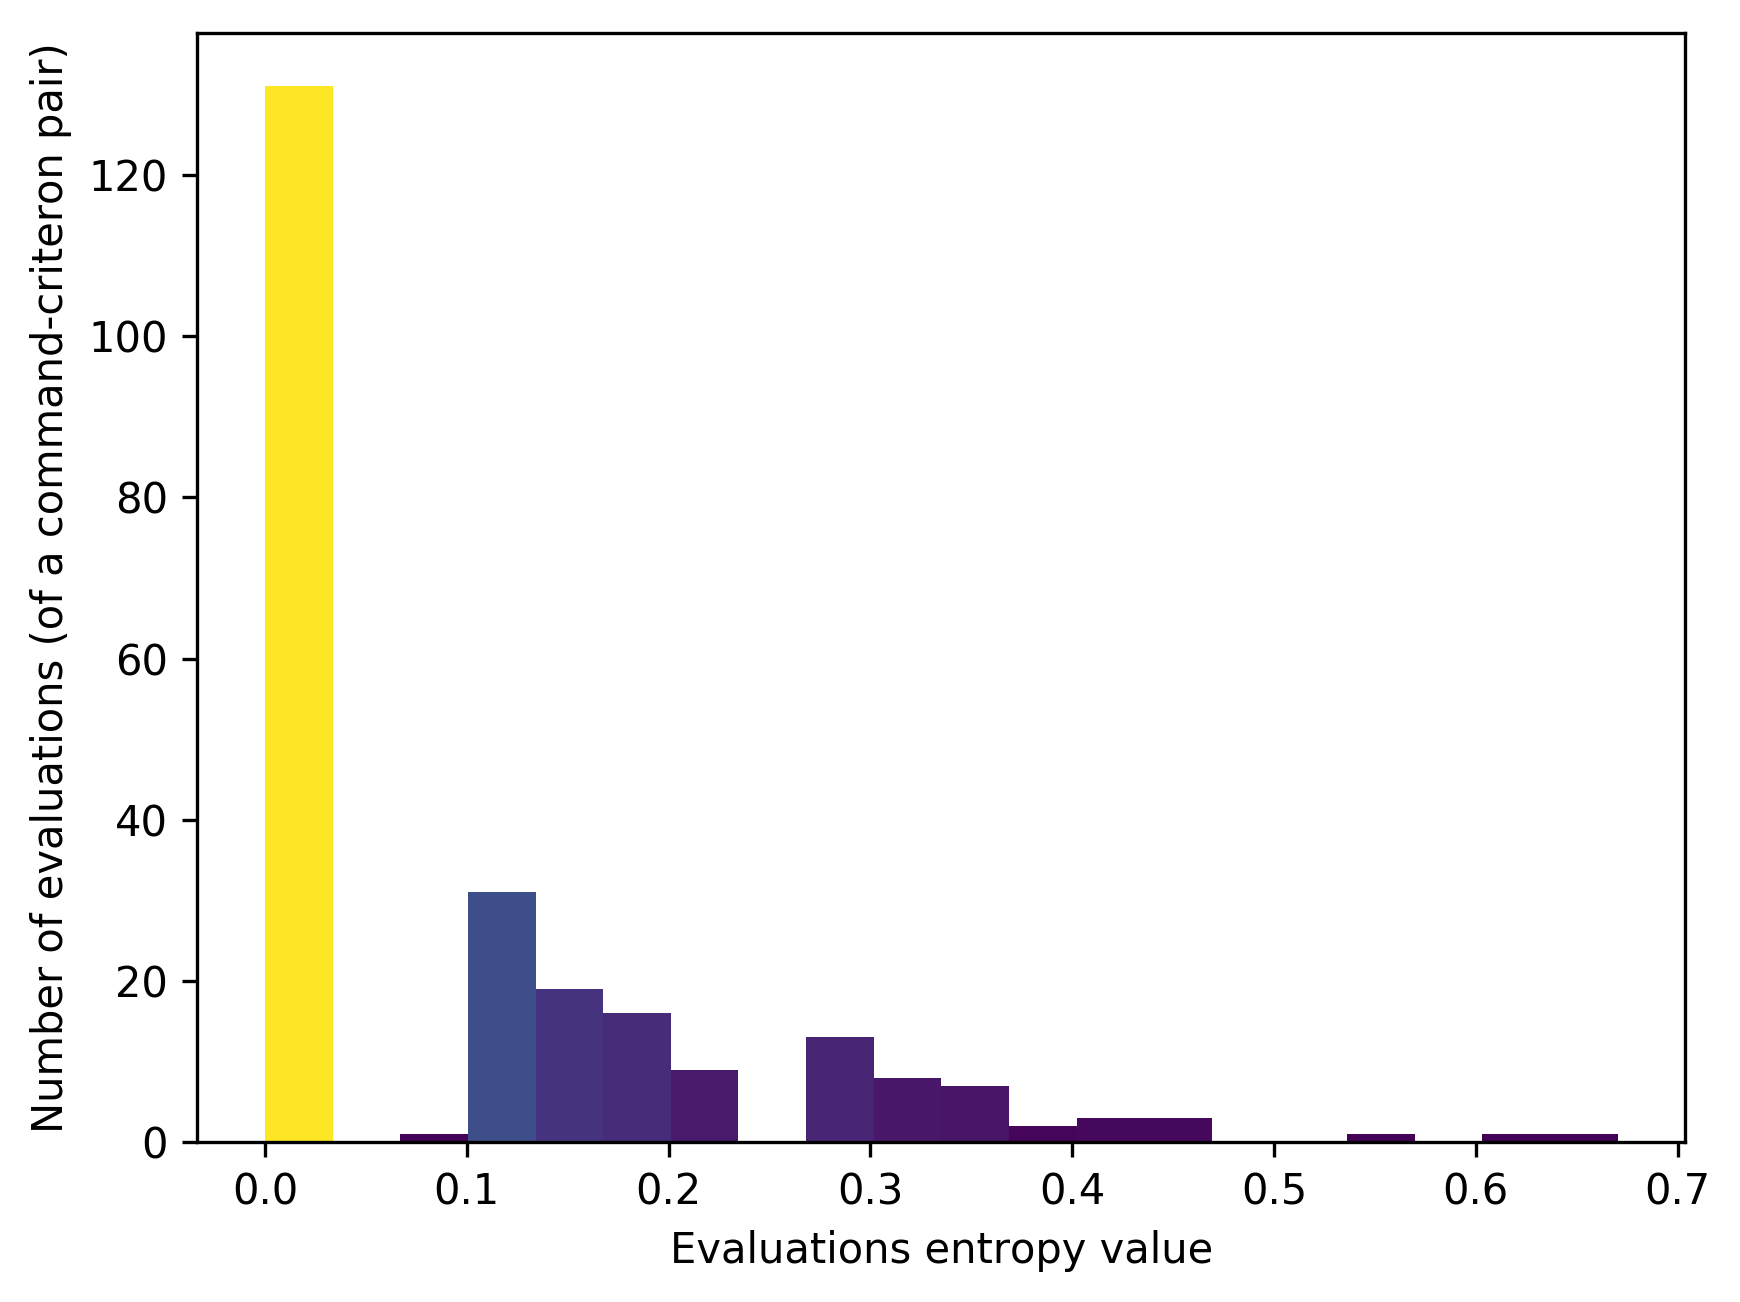
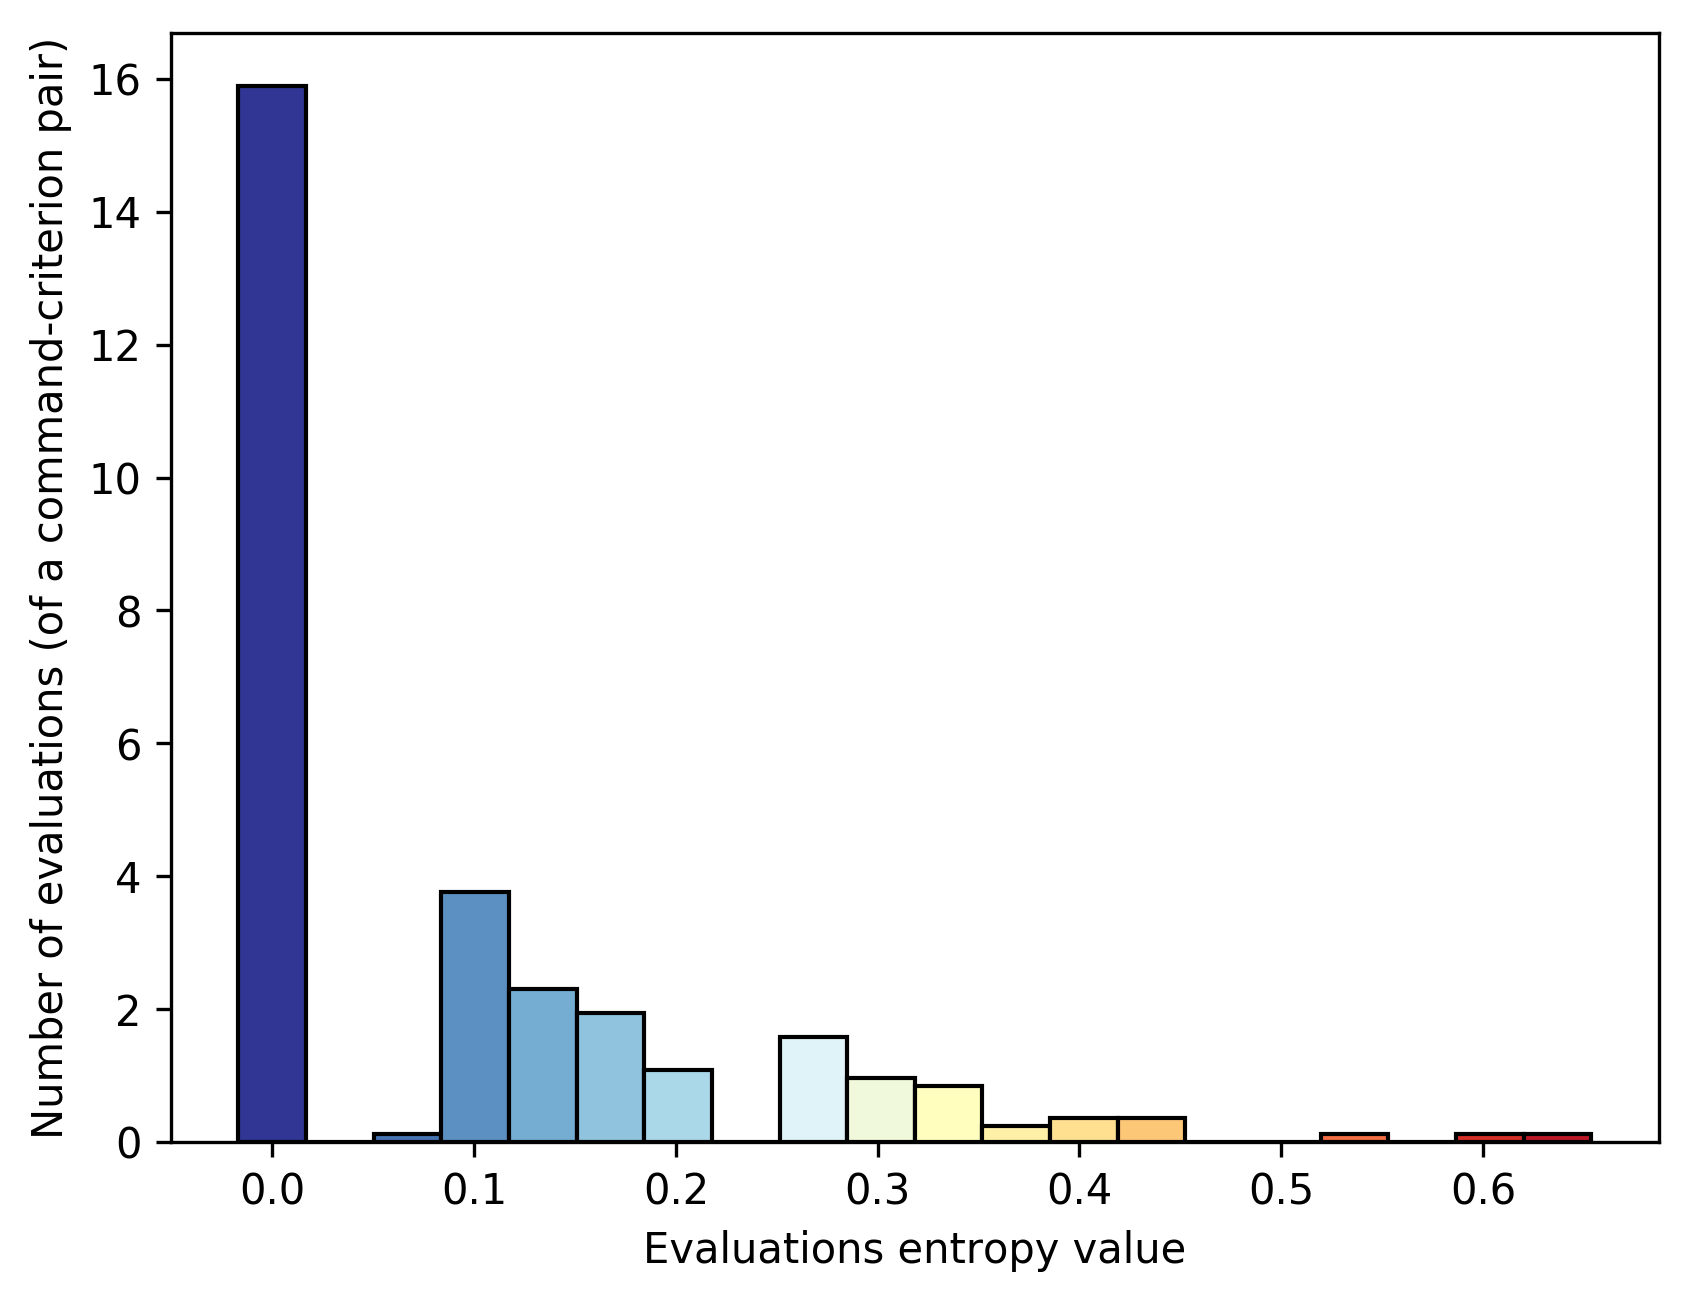
prettier plot

diff --git a/gestureclean/within_user_agreement.py b/gestureclean/within_user_agreement.py
@@ -103,11 +103,13 @@ print "MEDIAN VALUE", final_median
 
 ###### Scatter plot ###############
 plt.scatter(range(len(consistency_means)), consistency_means, c="#1200c9")
-plt.plot([0,250],[final_mean,final_mean], 'r--', label='Entropy mean')
-plt.plot([0,250],[final_median,final_median], dashes=[2,2,10,2], c="#FA9A14", label='Entropy median')
-plt.xlabel('Evaluation instances (for a command-criteron pair)')
+plt.plot([0,250],[final_mean,final_mean], 'c--', label='Entropy mean')
+line = plt.plot([0,250],[final_median,final_median], dashes=[2,2,10,2], c="r", label='Entropy median')
+plt.setp(line, linewidth=3)
+plt.xlabel('Evaluation instances (for a command-criterion pair)')
 plt.ylabel('Average entropy of each evaluation')
 plt.legend()
+# plt.show()
 plt.savefig('entropy_scatter.png', bbox_inches='tight', dpi=300)
 plt.clf()
 
@@ -115,29 +117,29 @@ plt.clf()
 
 ###### HISTOGRAM ###############
 n_bins = 20
-# N is the count in each bin, bins is the lower-limit of the bin
-N, bins, patches = plt.hist(consistency_means, bins=n_bins)
-# We'll color code by height, but you could use any scalar
-fracs = N / N.max()
-# we need to normalize the data to 0..1 for the full range of the colormap
-norm = colors.Normalize(fracs.min(), fracs.max())
-# Now, we'll loop through our objects and set the color of each accordingly
-for thisfrac, thispatch in zip(fracs, patches):
-    color = plt.cm.viridis(norm(thisfrac))
-    thispatch.set_facecolor(color)
-plt.xlabel('Evaluations entropy value')
-plt.ylabel('Number of evaluations (of a command-criteron pair)')
+cm = plt.cm.get_cmap('RdYlBu_r')
 
+# Get the histogramp
+Y,X = np.histogram(consistency_means, n_bins, normed=1)
+x_span = X.max()-X.min()
+C = [cm(((x-X.min())/x_span)) for x in X]
+
+plt.bar(X[:-1],Y,color=C,width=X[1]-X[0],edgecolor='k')
+plt.xlabel('Evaluations entropy value')
+plt.ylabel('Number of evaluations (of a command-criterion pair)')
+# plt.show()
 plt.savefig('entropy_hist.png', bbox_inches='tight', dpi=300)
 plt.clf()
 
 
 ######### PER VAC ###############
 # print consistency_means_vac
+matplotlib.rcParams['lines.linewidth'] = 2
 vac_evals = []
 index = 0
 fig = plt.figure()
 gs1 = gridspec.GridSpec(3, 2)
+first = True
 for vac in vacs:
     # get the entropies that belong to an specific vac
     print("///////////")
@@ -152,8 +154,14 @@ for vac in vacs:
     print vac.name+" MEDIAN VALUE", final_median
     small_plt = fig.add_subplot(gs1[index])
     small_plt.scatter(range(len(filtered_consistency_means)), filtered_consistency_means, c="#1200c9")
-    small_plt.plot([0,42],[final_mean,final_mean], 'r--', label='Entropy mean')
-    small_plt.plot([0,42],[final_median,final_median], dashes=[2,2,15,2], c="#FA9A14", label='Entropy median')
+    if first:
+        l1 = small_plt.plot([0,42],[final_mean,final_mean], 'c--', label='Entropy mean')
+        l2 = small_plt.plot([0,42],[final_median,final_median], dashes=[2,2,15,2], c="r", label='Entropy median')
+        plt.setp(l2, linewidth=2)
+        first = False
+    else:
+        l1 = small_plt.plot([0,42],[final_mean,final_mean], 'c--')
+        l2 = small_plt.plot([0,42],[final_median,final_median], dashes=[2,2,15,2], c="r")
     vac_name = vac_name
     if vac_name == 'Complexity':
         vac_name = 'Simplicity'
@@ -161,10 +169,9 @@ for vac in vacs:
         vac_name = 'Economy of movement'
     small_plt.set_title(vac.name)
     index +=1
-gs1.tight_layout(fig)
-fig.set_xlabel('Evaluation instances (for a command-criteron pair)')
-fig.set_ylabel('Average entropy of each evaluation')
-fig.legend()
-fig.savefig('all_entropy_scatter.png', dpi=300)
+gs1.tight_layout(fig, rect=(0,0,1,0.90))
+fig.legend(loc='upper left')
+# plt.show()
+fig.savefig('all_entropy_scatter.png', dpi=600)
 print(stats.f_oneway(*vac_evals))
 
